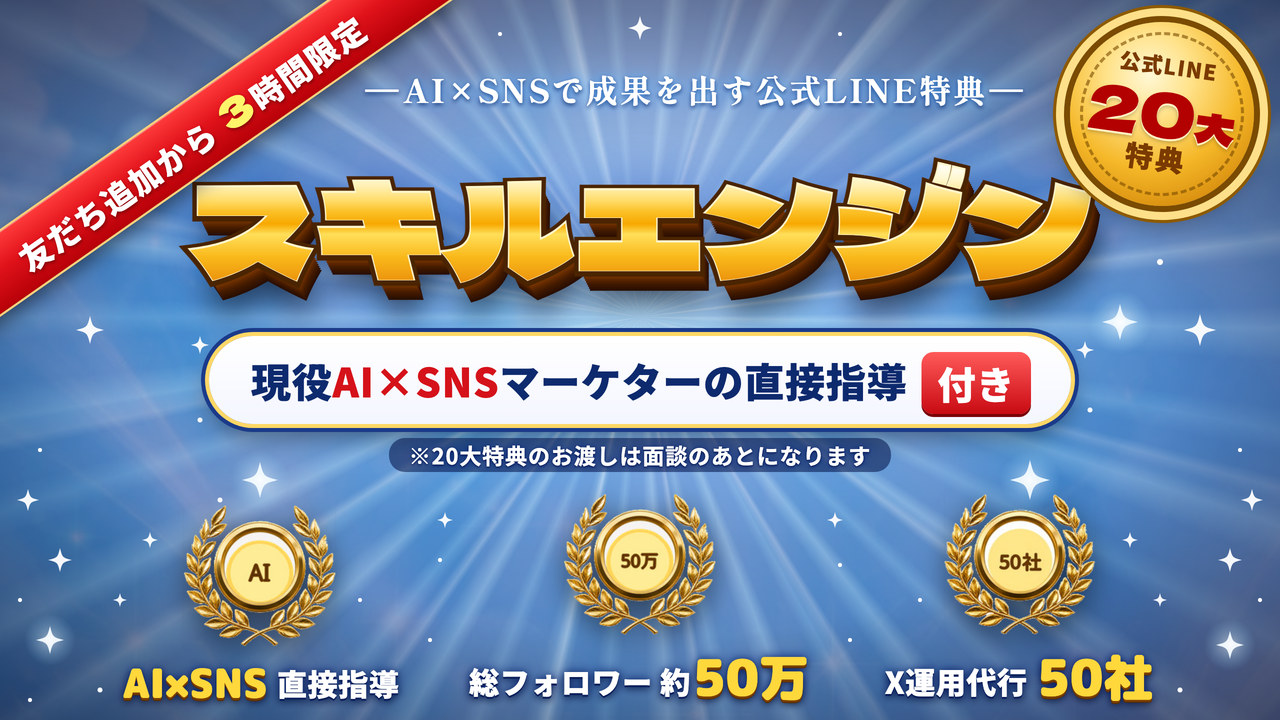
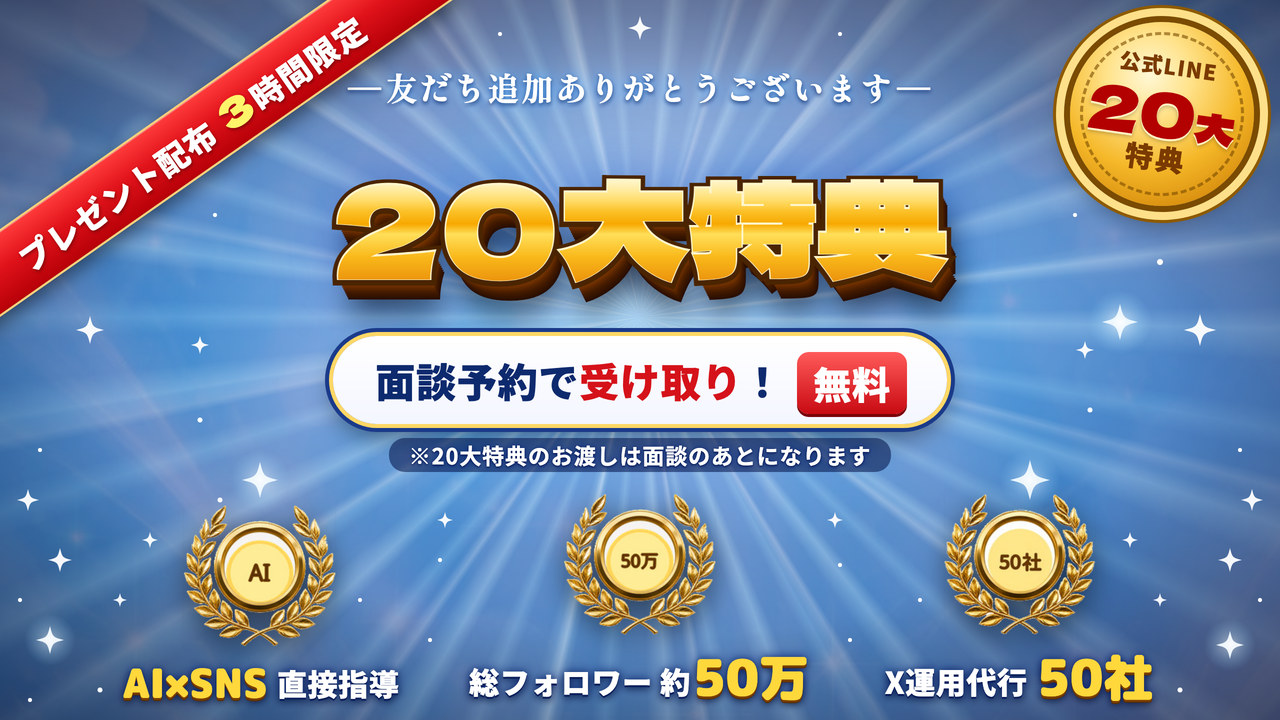
ヒーロー画像を「プレゼントが受け取れる」と分かる構成に作り直す
ユーザー指摘: 開いた人がプレゼントを受け取れることが伝わらなかった。
- 中央の巨大文字を「スキルエンジン」→「20大特典」
- リボン「プレゼント配布 3時間限定」、副題「友だち追加ありがとうございます」
- ピル「面談予約で受け取り！【無料】」、注記「※20大特典のお渡しは面談のあとになります」は維持
- 月桂樹3つ(AI×SNS直接指導/総フォロワー約50万/X運用代行50社)は維持
render.sh の待ち時間を延長(フォント読込前に撮れて文字が消える事故があった)。

Changed region(s): [[0.0, 0.1833, 0.875, 0.6417], [0.2812, 0.0917, 0.8125, 0.1528]]

diff --git a/design-src/top-images/hero/index.html b/design-src/top-images/hero/index.html
@@ -53,7 +53,7 @@
   .badge .l3{font-family:'Noto Sans JP',sans-serif;font-weight:900;font-size:28px;color:#7a3a00;letter-spacing:.1em;margin-top:2px;line-height:1;}
 
   /* subtitle */
-  .sub{position:absolute;left:110px;right:0;top:66px;text-align:center;
+  .sub{position:absolute;left:0;right:0;top:64px;text-align:center;
     font-family:'Shippori Mincho B1',serif;font-weight:800;font-size:32px;color:#fff;letter-spacing:.06em;white-space:nowrap;
     text-shadow:0 0 12px rgba(80,170,255,.9),0 2px 4px rgba(0,20,80,.8);}
   .sub .dash{display:inline-block;margin:0 .1em;}
@@ -158,7 +158,7 @@
     <circle cx="1230" cy="645" r="26" fill="url(#glow)" opacity=".55"/>
   </svg>
 
-  <div class="ribbon"><span>友だち追加から <b>3</b>時間限定</span></div>
+  <div class="ribbon"><span>プレゼント配布 <b>3</b>時間限定</span></div>
 
   <div class="badge">
     <div class="l1">公式LINE</div>
@@ -166,18 +166,18 @@
     <div class="l3">特典</div>
   </div>
 
-  <div class="sub"><span class="dash">―</span>AI×SNSで成果を出す公式LINE特典<span class="dash">―</span></div>
+  <div class="sub"><span class="dash">―</span>友だち追加ありがとうございます<span class="dash">―</span></div>
 
   <div class="title">
-    <div class="layer shadow">スキルエンジン</div>
-    <div class="layer stroke">スキルエンジン</div>
-    <div class="layer stroke2">スキルエンジン</div>
-    <div class="layer fill">スキルエンジン</div>
-    <div class="layer gloss">スキルエンジン</div>
+    <div class="layer shadow">20大特典</div>
+    <div class="layer stroke">20大特典</div>
+    <div class="layer stroke2">20大特典</div>
+    <div class="layer fill">20大特典</div>
+    <div class="layer gloss">20大特典</div>
   </div>
 
   <div class="catch">
-    <span class="pill">現役<em>AI×SNS</em>マーケターの直接指導<span class="tsuki">付き</span></span>
+    <span class="pill">面談予約で<em>受け取り</em>！<span class="tsuki">無料</span></span>
   </div>
 
   <div class="note"><span>※20大特典のお渡しは面談のあとになります</span></div>
